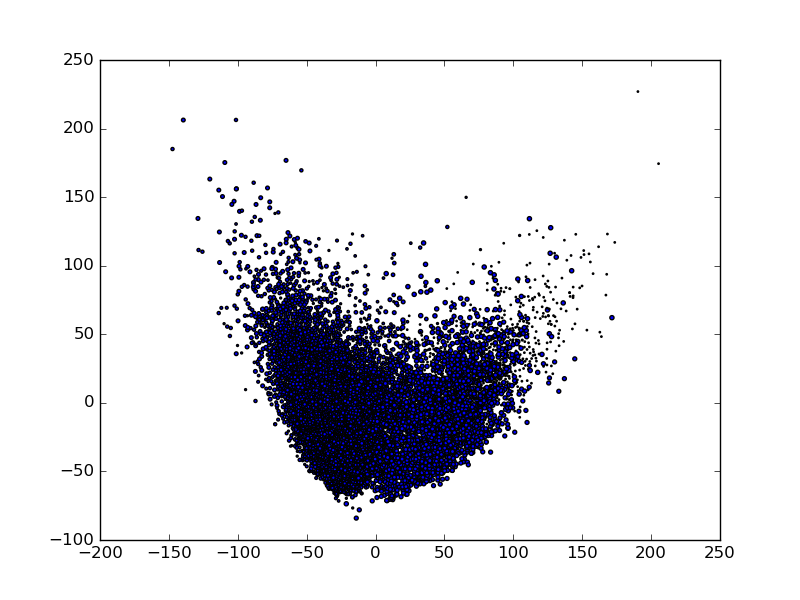
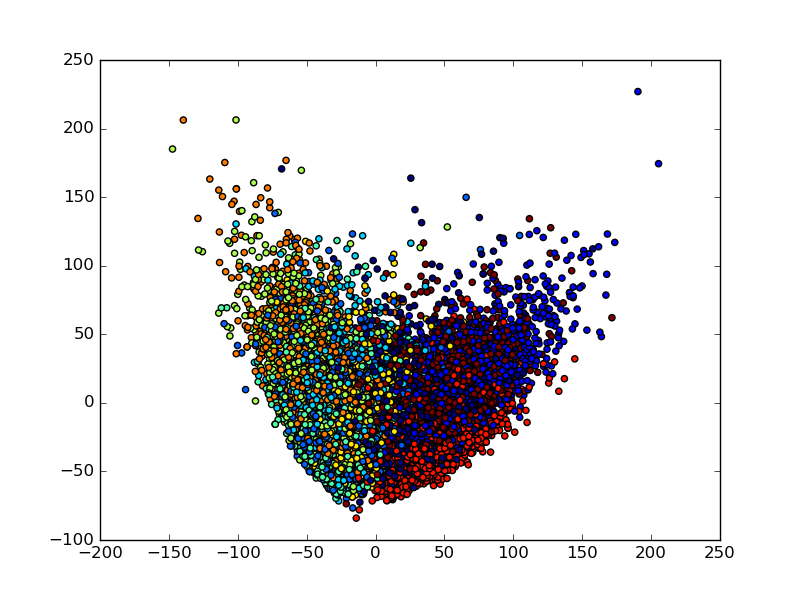
merge

diff --git a/practical_3/train_model.py b/practical_3/train_model.py
@@ -319,7 +319,7 @@ def feature_extraction():
         fig = plt.figure()
         print(np.max(prediction))
         print(np.min(prediction))
-        plt.scatter(pca[:,0],pca[:,1], prediction)
+        plt.scatter(pca[:,0],pca[:,1], c=prediction)
         
         
              
